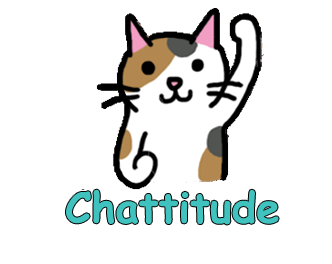
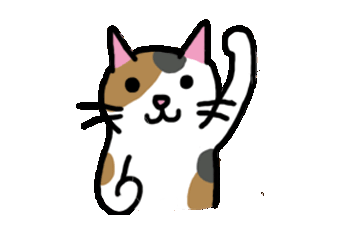
ui improved

Changed region(s): [[0.1807, 0.0278, 0.8434, 0.8611]]

diff --git a/src/pages/login/Login.jsx b/src/pages/login/Login.jsx
@@ -2,9 +2,9 @@ import React from 'react';
 import './login.css';
 import { Form, Input, Button } from 'antd';
 import {useHistory} from 'react-router-dom';
-import {useDispatch} from 'react-redux';
+import {useDispatch, useSelector} from 'react-redux';
 import {set} from 'automate-redux';
-/* import Chattitude from '../../assets/large_chattitude.png'; */
+import Chattitude from '../../assets/large_chattitude.png';
 
 //services
 import {login} from '../../services/authenticate';
@@ -15,6 +15,8 @@ const Login = () => {
 
   const history = useHistory();
   const dispatch = useDispatch();
+
+  const isMobileScreen = useSelector(state => state.uiState.isMobileScreen);
 
   const onFinish = values => {
     login(values)
@@ -32,7 +34,7 @@ const Login = () => {
 
   return (
     <div className="login-form">
-    {/* <img src={Chattitude} alt="chattitude" style={{width: '100%', height: 'auto'}}/> */}
+    {!isMobileScreen && <img src={Chattitude} alt="chattitude" style={{width: '100%', height: 'auto'}}/>}
     <Form
     name="basic"
     initialValues={{
@@ -73,6 +75,7 @@ const Login = () => {
       <Button type="primary" style={{width: "100%"}} onClick={() => history.push("/register")}>Register</Button>
     </Form.Item>
   </Form>
+  <a className="portfolio" href="https://shubham-nazare1.web.app/" rel="noopener noreferrer" target="_blank">MY PORTFOLIO HERE</a>
   </div>
   )
 }

diff --git a/src/components/home/style.css b/src/components/home/style.css
@@ -1,3 +1,8 @@
+@font-face{
+  font-family: AlegreyaSans;
+  src: url(AlegreyaSans.otf);
+}
+
 .search-user-list .rce-citem-body--top-time {
   display: none;
 }
@@ -23,6 +28,7 @@
   border-radius: 25px 25px 0px 0px;
   padding-top: 15px;
   box-shadow: 0 -3px 6px rgba(0,0,0,0.16), 0 3px 6px rgba(0,0,0,0.23);
+  background-image: url('../../assets//chatbox_background.jpg');
 }
 
 .chat-box-title {
@@ -34,4 +40,27 @@
 
 .rce-mbox-text {
   padding: 8px;
+}
+
+.portfolio {
+  color: black;
+    font-size: 12px;
+    font-style: normal;
+    -webkit-font-feature-settings: normal;
+    font-feature-settings: normal;
+    font-variant: normal;
+    font-weight: 600;
+    letter-spacing: 6.4px;
+    line-height: 28.8px;
+    font-family: AlegreyaSans;
+    position: absolute;
+    bottom: 2px;
+    text-align: center;
+    width: 298px;
+}
+
+@media only screen and (max-width: 298px) {
+  .portfolio {
+    width: 100%;
+  }
 }

diff --git a/src/components/home/FriendsBox.jsx b/src/components/home/FriendsBox.jsx
@@ -126,6 +126,7 @@ const FriendsBox = ({socket, logout, slideLeft}) => {
         />
       )}
       {!isSearchVisible && (
+        <>
         <ChatList
           onClick={(val) => openChatroom(val.title)}
           className='chat-list'
@@ -138,6 +139,8 @@ const FriendsBox = ({socket, logout, slideLeft}) => {
             unread: name === val.docs.user1 ? val.docs.user1unread : val.docs.user2unread,
           }))}
         />
+        <a className="portfolio" href="https://shubham-nazare1.web.app/" rel="noopener noreferrer" target="_blank">MY PORTFOLIO HERE</a>
+        </>
       )}
       {isSearchVisible && (
         <ChatList

diff --git a/src/store.js b/src/store.js
@@ -17,7 +17,7 @@ const initialState = {
     friendName: "",
     chatroom_id: "",
   },
-  suggestedFriends: ["shubham4443", "LightYagami", "walter_white", "Tony Soprano", "Lelouch", "Vito Corleone"],
+  suggestedFriends: ["shubham4443", "LightYagami", "walter_white", "Tony Soprano", "Lelouch", "Vito Corleone", "Freddie_Mercury"],
   chatrooms: [],
   chats: []
 };

diff --git a/src/pages/login/login.css b/src/pages/login/login.css
@@ -12,3 +12,9 @@
     background-image: url('../../assets/cats_background.jpg');
   }
 }
+
+@media only screen and (min-width: 500px) {
+  .login-form {
+    width: 450px;
+  }
+}
